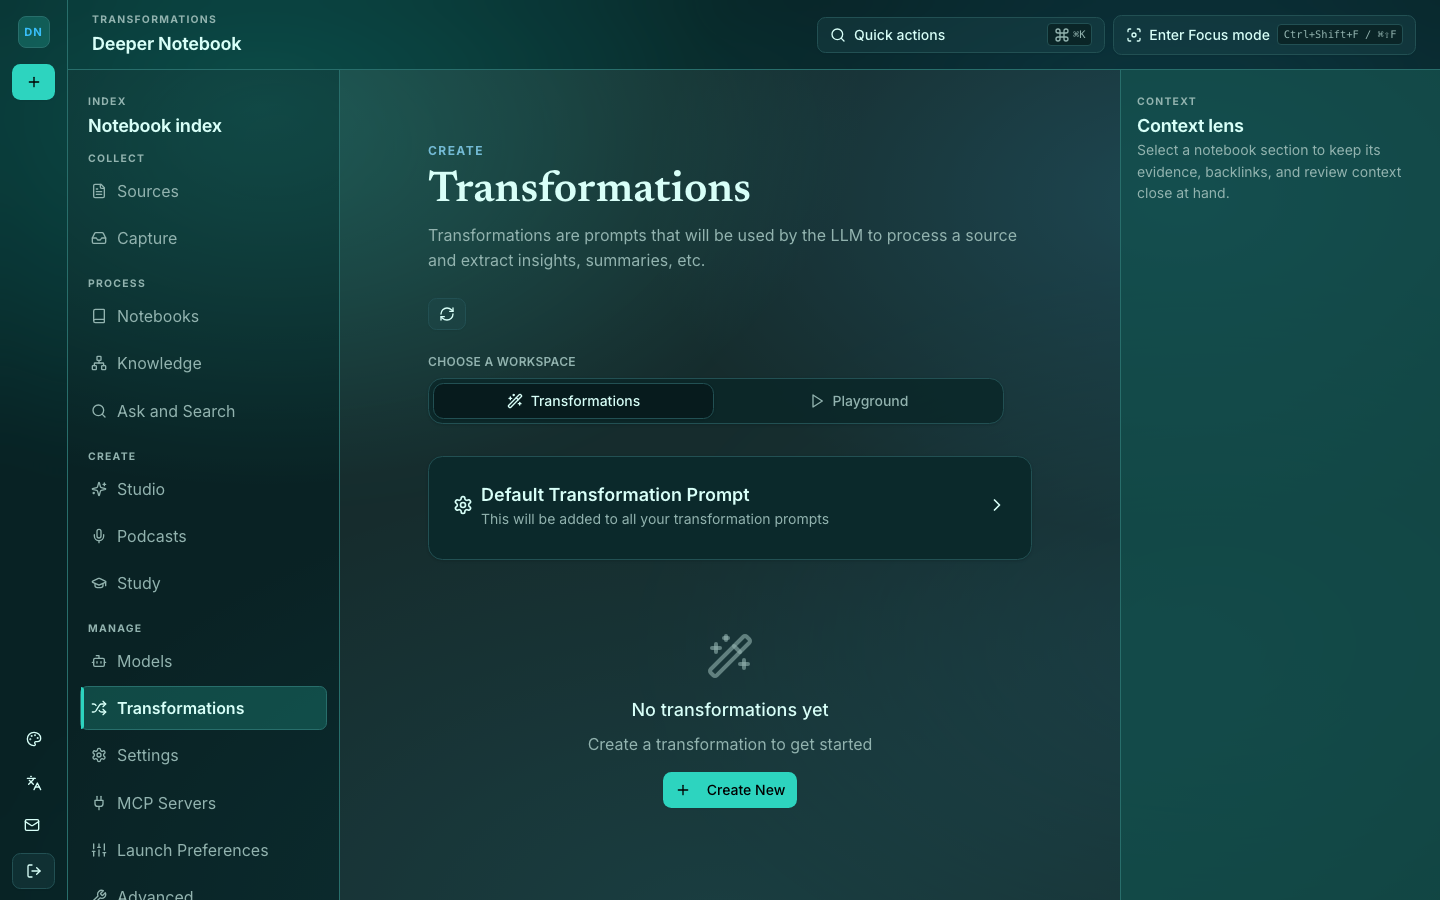
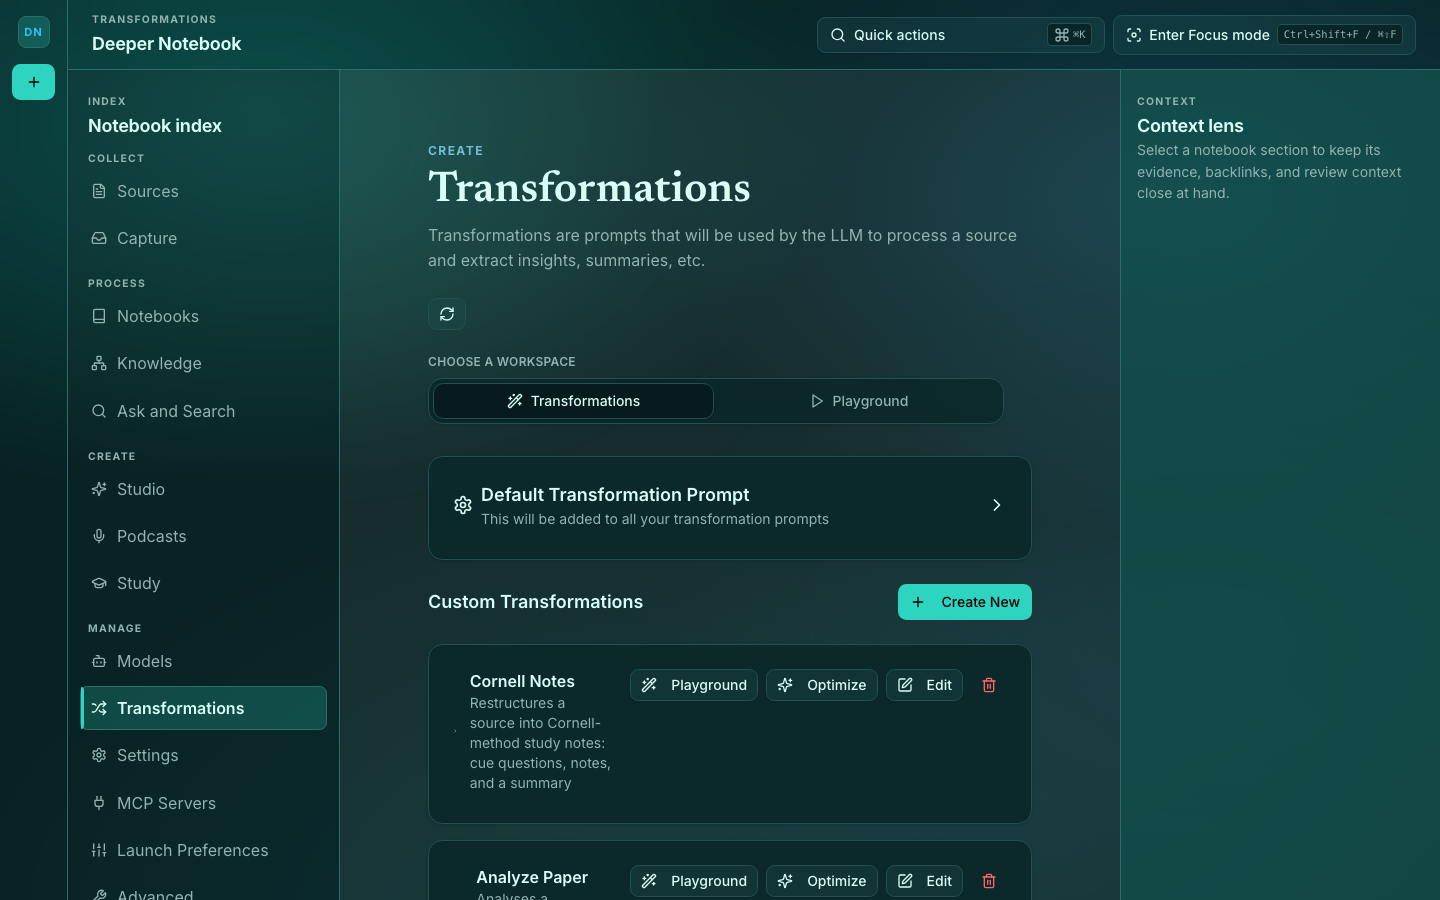
docs(user-guide): capture Debate mode, ExamLab, and Cornell Notes
Closes the gap flagged after the last doc refresh: three new guide sections
with prose but no screenshots. Standing up the fixtures turned out to be
tractable, not open-ended — done as its own pass.

WHAT'S NEW

- docs-capture.spec.ts: two new interaction-driven captures alongside the
  existing 24-route loop.
    25-chat-debate-mode  — clicks the Debate toggle, asserts aria-pressed
                           before the shot (real state, not just a visual)
    26-study-examlab     — walks notebook→quiz→start through a mocked quiz
                           artifact and an in-progress ExamAttempt, answers
                           question 1, screenshots mid-attempt
  Both reuse a new installGuideBackgroundRoutes() — extracted from the main
  test's inline route block so a route added for one shot can't drift out of
  sync with the others.

- 12-transformations.png regenerated: the transformations fixture was an
  empty array, so the existing shot showed nothing — closing that gap surfaced
  the Cornell Notes screenshot "for free," so no dedicated shot was needed for
  it. The four transformations now shown (Cornell Notes, Analyze Paper, Key
  Insights, Dense Summary) are the real seeded names/titles/descriptions from
  migrations 5 and 47, not invented copy.

- guide.html: figures added for both new shots (§8 Debate mode, §13 ExamLab),
  and the existing §14 Transformations caption updated to point at Cornell
  Notes now that it's actually visible in the image.
[…]

diff --git a/frontend/e2e/docs-capture.spec.ts b/frontend/e2e/docs-capture.spec.ts
@@ -41,6 +41,128 @@ const sourceDetailFixture = {
   notebooks: ['notebook-fixture-001'],
 } as const
 
+// Real seeded transformations (names/titles/descriptions read from migrations
+// 5 and 47) so the transformations shot shows actual product content instead
+// of an empty list — Cornell Notes included, since it has no other capture.
+const transformationsFixture = [
+  {
+    id: 'transformation-cornell-notes',
+    name: 'Cornell Notes',
+    title: 'Cornell Notes',
+    description:
+      'Restructures a source into Cornell-method study notes: cue questions, notes, and a summary',
+    prompt: '# IDENTITY and PURPOSE\n\nYou convert source material into Cornell-method study notes…',
+    apply_default: false,
+    created: '2026-01-01T00:00:00Z',
+    updated: '2026-01-01T00:00:00Z',
+  },
+  {
+    id: 'transformation-analyze-paper',
+    name: 'Analyze Paper',
+    title: 'Paper Analysis',
+    description: 'Analyses a technical/scientific paper',
+    prompt: '# IDENTITY and PURPOSE\n\nYou analyse a technical or scientific paper…',
+    apply_default: false,
+    created: '2026-01-01T00:00:00Z',
+    updated: '2026-01-01T00:00:00Z',
+  },
+  {
+    id: 'transformation-key-insights',
+    name: 'Key Insights',
+    title: 'Key Insights',
+    description: 'Extracts important insights and actionable items',
+    prompt: '# IDENTITY and PURPOSE\n\nYou extract important insights and actionable items…',
+    apply_default: false,
+    created: '2026-01-01T00:00:00Z',
+    updated: '2026-01-01T00:00:00Z',
+  },
+  {
+    id: 'transformation-dense-summary',
+    name: 'Dense Summary',
+    title: 'Dense Summary',
+    description: 'Creates a rich, deep summary of the content',
+    prompt: '# IDENTITY and PURPOSE\n\nYou create a rich, deep summary of the content…',
+    apply_default: false,
+    created: '2026-01-01T00:00:00Z',
+    updated: '2026-01-01T00:00:00Z',
+  },
+] as const
+
+// A completed quiz artifact for ExamLab (§13 in the guide) — matches the
+// StudioArtifact shape ExamLab reads (id/notebook_id/artifact_type/status/title
+// only; the setup view never inspects output_payload).
+const quizArtifactFixture = {
+  id: 'studio-artifact-quiz-fixture-001',
+  notebook_id: 'notebook-fixture-001',
+  artifact_type: 'quiz',
+  status: 'completed',
+  title: 'Research Methods — Quiz',
+  source_ids: ['source-fixture-001'],
+  output_format: 'quiz',
+  output_payload: {},
+  citations: [],
+  export_paths: {},
+  created: '2026-01-01T00:00:00Z',
+  updated: '2026-01-01T00:00:00Z',
+} as const
+
+// The in-progress attempt POST /api/study/exams/attempts returns — taking
+// view: questions populated, results null, matching the real taking/results
+// split (api/schemas/study_exams.py). Deadline is computed at capture time so
+// the countdown always renders a normal (non-overtime) remaining time.
+function buildExamAttemptFixture() {
+  const startedAt = new Date()
+  const deadline = new Date(startedAt.getTime() + 20 * 60_000)
+  return {
+    id: 'study_exam_attempt:fixture001',
+    artifact_id: quizArtifactFixture.id,
+    notebook_id: 'notebook-fixture-001',
+    title: quizArtifactFixture.title,
+    question_count: 3,
+    duration_sec: 1200,
+    started_at: startedAt.toISOString(),
+    deadline: deadline.toISOString(),
+    submitted_at: null,
+    late: null,
+    correct_count: null,
+    score_percent: null,
+    seeded_indices: [],
+    results: null,
+    questions: [
+      {
+        index: 0,
+        prompt: 'What is the primary purpose of a control group in an experiment?',
+        options: [
+          { id: 'a', text: 'To isolate the effect of the variable being tested' },
+          { id: 'b', text: 'To increase the sample size' },
+          { id: 'c', text: 'To reduce the cost of the study' },
+          { id: 'd', text: 'To speed up data collection' },
+        ],
+      },
+      {
+        index: 1,
+        prompt: 'Which of the following best describes a peer-reviewed source?',
+        options: [
+          { id: 'a', text: 'Any article published online' },
+          { id: 'b', text: 'Work evaluated by independent experts before publication' },
+          { id: 'c', text: 'A source with more than 100 citations' },
+          { id: 'd', text: 'A source written by a single author' },
+        ],
+      },
+      {
+        index: 2,
+        prompt: 'What does a p-value below 0.05 typically indicate in a study?',
+        options: [
+          { id: 'a', text: 'The effect size is large' },
+          { id: 'b', text: 'The result is unlikely to be due to chance alone' },
+          { id: 'c', text: 'The study is definitely correct' },
+          { id: 'd', text: 'The sample size was too small' },
+        ],
+      },
+    ],
+  } as const
+}
+
 const sharedBackgroundResponses: ReadonlyArray<readonly [string, unknown]> = [
   ['/api/system/db-repair-needed', { needs_repair: false }],
   ['/api/updates/check', {
@@ -63,7 +185,7 @@ const sharedBackgroundResponses: ReadonlyArray<readonly [string, unknown]> = [
   ['/api/deeper-notebook/gmail/status', { connected: false, configured: false }],
   ['/api/credentials/status', { configured: {}, source: {}, encryption_configured: true }],
   ['/api/credentials/env-status', {}],
-  ['/api/transformations', []],
+  ['/api/transformations', transformationsFixture],
 ]
 
 
@@ -94,9 +216,11 @@ const shots: ReadonlyArray<{ name: string; path: string; theme: string; width?: 
   { name: '24-notebooks-mobile', path: '/notebooks', theme: 'research-core-dark', width: 390, height: 844 },
 ]
 
-test('capture every guide screen', async ({ page }) => {
-  test.setTimeout(600_000)
-  mkdirSync(outDir, { recursive: true })
+// Shared route setup used by the main capture run and by the two additional,
+// interaction-driven captures below (debate mode, ExamLab). Extracted so a
+// route added for one shot can't silently drift out of sync with the others —
+// there is exactly one definition of what a mocked dashboard looks like.
+async function installGuideBackgroundRoutes(page: import('@playwright/test').Page): Promise<void> {
   await installLuminousFolioFixture(page, { theme: 'research-core-dark' })
   for (const [pathname, body] of sharedBackgroundResponses) {
     await page.route(url => url.pathname === pathname, async route => {
@@ -212,7 +336,7 @@ test('capture every guide screen', async ({ page }) => {
     await route.fulfill({ contentType: 'application/json', body: '[]' })
   })
   await page.route('**/api/transformations**', async route => {
-    await route.fulfill({ contentType: 'application/json', body: '[]' })
+    await route.fulfill({ contentType: 'application/json', body: JSON.stringify(transformationsFixture) })
   })
   await page.route('**/api/study/cards/due', async route => {
     await route.fulfill({ contentType: 'application/json', body: '[]' })
@@ -232,6 +356,24 @@ test('capture every guide screen', async ({ page }) => {
   await page.route('**/api/capture/items', async route => {
     await route.fulfill({ contentType: 'application/json', body: '[]' })
   })
+  // ExamLab's setup view GETs this list on mount ("recent attempts") — empty
+  // by default. Same pathname is also POSTed to (start a new attempt), so
+  // this only fulfills GET and falls through otherwise; the ExamLab-specific
+  // test below registers its own POST handler, which — added after this one
+  // — is tried first and only reaches this fallback for the GET it ignores.
+  await page.route(url => url.pathname === '/api/study/exams/attempts', async route => {
+    if (route.request().method() !== 'GET') {
+      await route.fallback()
+      return
+    }
+    await route.fulfill({ contentType: 'application/json', body: '[]' })
+  })
+}
+
+test('capture every guide screen', async ({ page }) => {
+  test.setTimeout(600_000)
+  mkdirSync(outDir, { recursive: true })
+  await installGuideBackgroundRoutes(page)
 
   for (const shot of shots) {
     await page.addInitScript((theme) => {
@@ -246,4 +388,90 @@ test('capture every guide screen', async ({ page }) => {
     await page.waitForTimeout(1200)
     await page.screenshot({ path: `${outDir}/${shot.name}.png`, fullPage: false })
   }
+})
+
+test('capture debate mode toggled on', async ({ page }) => {
+  test.setTimeout(60_000)
+  mkdirSync(outDir, { recursive: true })
+  await installGuideBackgroundRoutes(page)
+
+  await page.addInitScript((theme) => {
+    localStorage.setItem('dn-theme', theme)
+  }, 'research-core-dark')
+  await page.setViewportSize({ width: 1440, height: 900 })
+  // Same route as shot 03 — the toggle already renders there, off. This
+  // capture is that exact screen with one extra click.
+  await page.goto('/notebooks/notebook-fixture-001')
+  await expect(page.locator('body')).toBeVisible({ timeout: 20_000 })
+  await page.waitForLoadState('networkidle').catch(() => undefined)
+  const toggle = page.getByTestId('debate-mode-toggle')
+  await toggle.waitFor({ state: 'visible', timeout: 20_000 })
+  await toggle.click()
+  await expect(toggle).toHaveAttribute('aria-pressed', 'true')
+  await page.mouse.move(0, 0)
+  await page.waitForTimeout(600)
+  await page.screenshot({ path: `${outDir}/25-chat-debate-mode.png`, fullPage: false })
+})
+
+test('capture ExamLab in-progress attempt', async ({ page }) => {
+  test.setTimeout(60_000)
+  mkdirSync(outDir, { recursive: true })
+  await installGuideBackgroundRoutes(page)
+
+  // Override the shared "no quizzes" default with one completed quiz, and
+  // handle the start-exam POST — registered after installGuideBackgroundRoutes
+  // so both are tried before that function's fallback-only handlers. Computed
+  // once so the POST (start) and the GET-by-id useExamAttempt fires right
+  // after agree on the same attempt — the earlier failed run served that
+  // second GET from installResearchWorkbenchMocks's generic `{}` catch-all,
+  // where undefined !== null made submitted_at look non-null and ExamLab
+  // rendered the finished/results view instead of the taking view.
+  const attemptFixture = buildExamAttemptFixture()
+  await page.route('**/api/studio/notebooks/notebook-fixture-001/artifacts**', async route => {
+    await route.fulfill({ contentType: 'application/json', body: JSON.stringify([quizArtifactFixture]) })
+  })
+  await page.route(url => url.pathname === '/api/study/exams/attempts', async route => {
+    if (route.request().method() !== 'POST') {
+      await route.fallback()
+      return
+    }
+    await route.fulfill({
+      status: 201,
+      contentType: 'application/json',
+      body: JSON.stringify(attemptFixture),
+    })
+  })
+  await page.route(
+    // The id contains ':' (a SurrealDB record id) — the client percent-encodes
+    // it via encodeURIComponent, so pathname arrives encoded; decode before
+    // comparing rather than embedding the raw id in the matcher.
+    url => decodeURIComponent(url.pathname) === `/api/study/exams/attempts/${attemptFixture.id}`,
+    async route => {
+      await route.fulfill({ contentType: 'application/json', body: JSON.stringify(attemptFixture) })
+    },
+  )
+
+  await page.addInitScript((theme) => {
+    localStorage.setItem('dn-theme', theme)
+  }, 'research-core-dark')
+  await page.setViewportSize({ width: 1440, height: 900 })
+  await page.goto('/study')
+  await expect(page.locator('body')).toBeVisible({ timeout: 20_000 })
+  await page.waitForLoadState('networkidle').catch(() => undefined)
+
+  await page.getByTestId('examlab-notebook-select').selectOption('notebook-fixture-001')
+  const quizSelect = page.getByTestId('examlab-quiz-select')
+  await expect(quizSelect.locator(`option[value="${quizArtifactFixture.id}"]`)).toHaveCount(1, { timeout: 20_000 })
+  await quizSelect.selectOption(quizArtifactFixture.id)
+  await page.getByTestId('examlab-start').click()
+
+  const taking = page.getByTestId('examlab-taking')
+  await taking.waitFor({ state: 'visible', timeout: 20_000 })
+  // Answer the first question only, so the screenshot reads as an attempt
+  // genuinely in progress rather than either extreme (untouched or complete).
+  await page.locator('input[name="exam-q-0"]').first().check()
+
+  await page.mouse.move(0, 0)
+  await page.waitForTimeout(600)
+  await page.screenshot({ path: `${outDir}/26-study-examlab.png`, fullPage: false })
 })

diff --git a/docs/user-guide/guide.html b/docs/user-guide/guide.html
@@ -496,6 +496,12 @@ commit to it in writing.</p>
 <p>The toggle is per-turn, not a setting — it does not persist across a new session, and it does not
 change retrieval or which sources are in context, only the stance the model is asked to take.</p>
 
+<figure>
+  <img src="shots/25-chat-debate-mode.png" alt="The chat input row with the Debate toggle engaged">
+  <figcaption><b>Debate mode engaged.</b> The toggle sits next to the model picker, right above the
+  message box.</figcaption>
+</figure>
+
 <!-- ============ 9 ============ -->
 <div class="page-break"></div>
 <h2><span class="num">9</span>Ask and Search</h2>
@@ -678,6 +684,12 @@ retrieval side, not just requested in a prompt.</p>
 every question — so if you edit or regenerate the quiz while an attempt is in progress, your exam stays
 exactly as it was when you started. Grading needs no model call and works fully offline: your answers
 are compared against the snapshot the moment you submit.</p>
+
+<figure>
+  <img src="shots/26-study-examlab.png" alt="An exam in progress, one of three questions answered, countdown running">
+  <figcaption><b>ExamLab, mid-attempt.</b> The countdown is display-only — a late submission is still
+  graded, never rejected.</figcaption>
+</figure>
 <ul>
   <li><strong>While the exam is running</strong> you see only the questions and options — never the
   answer key. The application is built so the answer key cannot appear in your browser early, even
@@ -695,8 +707,9 @@ are compared against the snapshot the moment you submit.</p>
 <p class="lede">A saved instruction you can run over any source, plus a way to make it better.</p>
 
 <figure>
-  <img src="shots/12-transformations.png" alt="Transformations">
-  <figcaption><b>Transformations.</b> Named, reusable prompts with an Optimize action on each card.</figcaption>
+  <img src="shots/12-transformations.png" alt="Transformations, with Cornell Notes as the first custom card">
+  <figcaption><b>Transformations.</b> Named, reusable prompts with an Optimize action on each card —
+  Cornell Notes is the built-in one, shown here first.</figcaption>
 </figure>
 
 <p>A transformation is a named prompt — "summarise for a sceptical reader", "extract every claim with a

diff --git a/docs/user-guide/README.md b/docs/user-guide/README.md
@@ -1,14 +1,14 @@
 # User guide — source and regeneration
 
-The end-user PDF guide (28 sections, ~40 pages) is built from the files in this directory.
-The PDF itself is **not** committed — it is ~7.7 MB and is a build artifact.
+The end-user PDF guide (28 sections, 45 pages) is built from the files in this directory.
+The PDF itself is **not** committed — it is ~7.9 MB and is a build artifact.
 
 ## Files
 
 | File | What it is |
 |---|---|
 | `guide.html` | The guide itself — content, print CSS, and figure captions |
-| `shots/*.png` | 24 live application renders + the app icon |
+| `shots/*.png` | 26 live application renders + the app icon |
 | `render.mjs` | Chromium print-to-PDF driver |
 | `../../frontend/e2e/docs-capture.spec.ts` | The harness that produces `shots/` |
 
@@ -17,6 +17,13 @@ The PDF itself is **not** committed — it is ~7.7 MB and is a build artifact.
 `docs-capture.spec.ts` visits every dashboard route against the mocked-browser
 fixtures — the same fixtures the visual release gate uses — so the shots are real
 renders of the application, deterministic, and require no live backend.
+
+Three tests in the file, one command runs all of them: the main loop (24 static routes),
+plus two interaction-driven captures that click through to a specific UI state —
+`25-chat-debate-mode` (toggle clicked, `aria-pressed` asserted before the shot) and
+`26-study-examlab` (a mocked quiz artifact walked through notebook→quiz→start, one
+answer selected). Both reuse `installGuideBackgroundRoutes`, the same route setup the
+main loop uses, so a route added for one shot can't drift out of sync with the others.
 
 It is excluded from the `mocked-browser` project's default run (see the `testIgnore`
 list in `frontend/playwright.config.ts`), so it does not add ~50 s to every gate.
